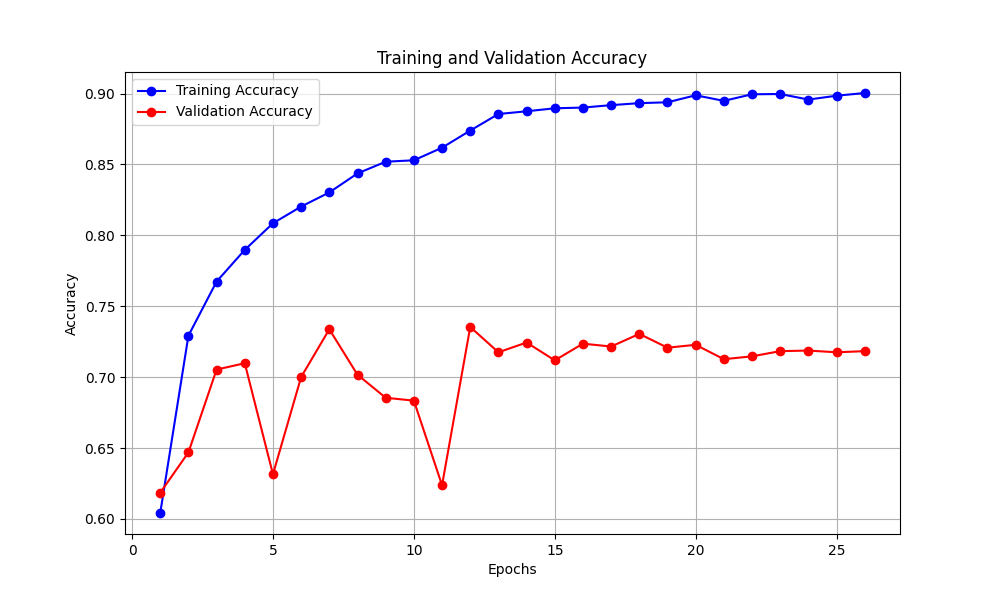
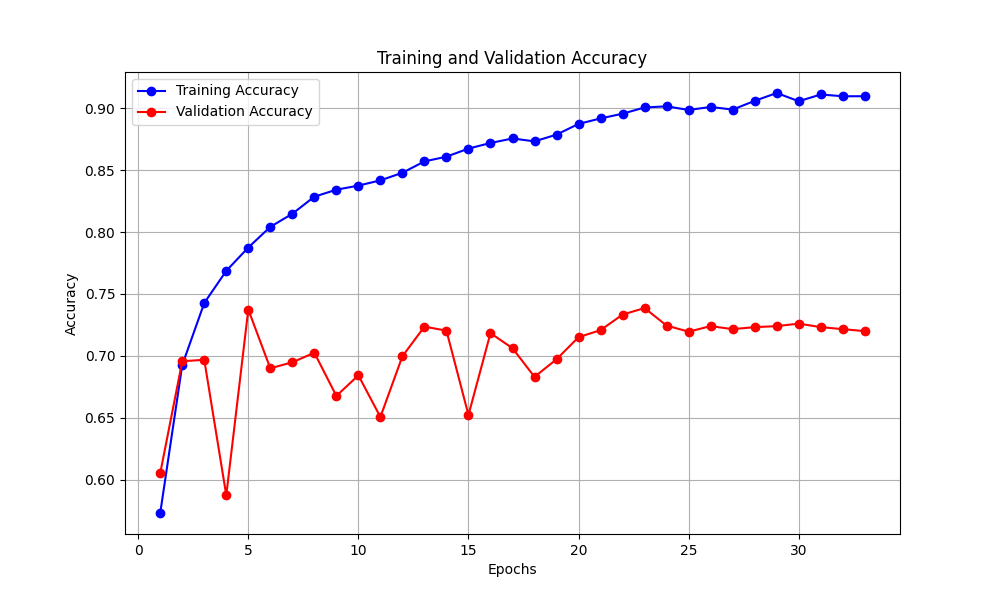
model updated

diff --git a/src/cnnClassifier/components/model_training.py b/src/cnnClassifier/components/model_training.py
@@ -28,7 +28,7 @@ class Training:
         # Common data generator arguments
         datagenerator_kwargs = dict(
             rescale=1.0 / 255,
-            validation_split=0.30  # 30% data reserved for validation
+            validation_split=0.20  # 20% data reserved for validation
         )
 
         # Data flow arguments
